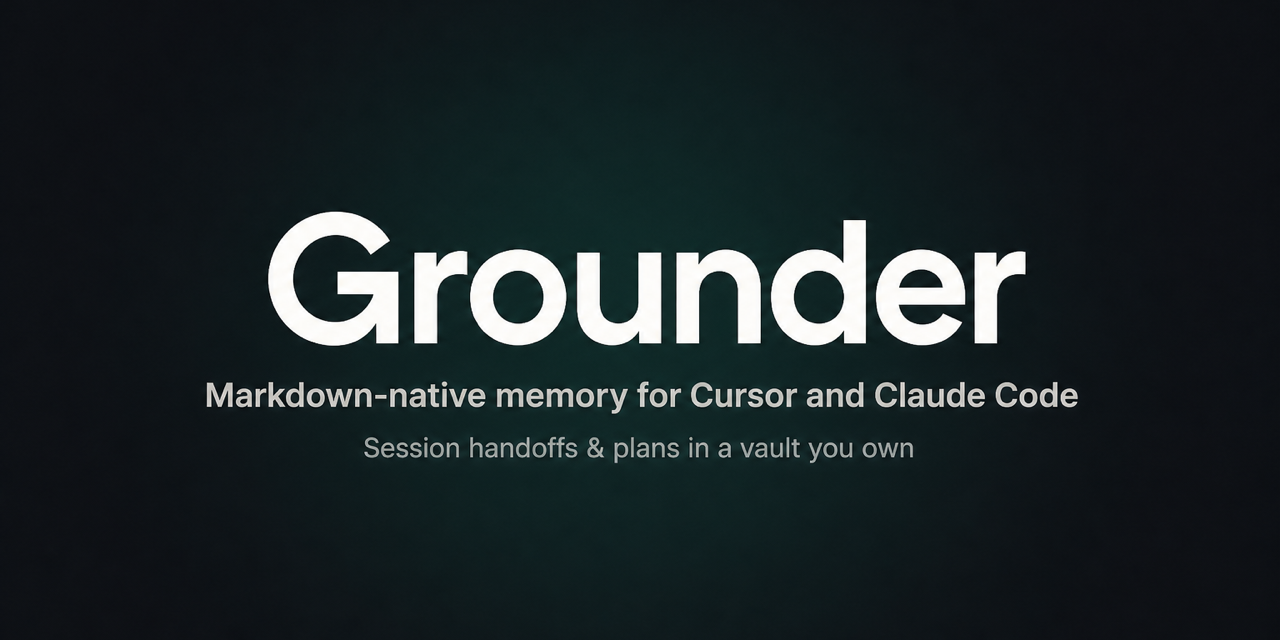
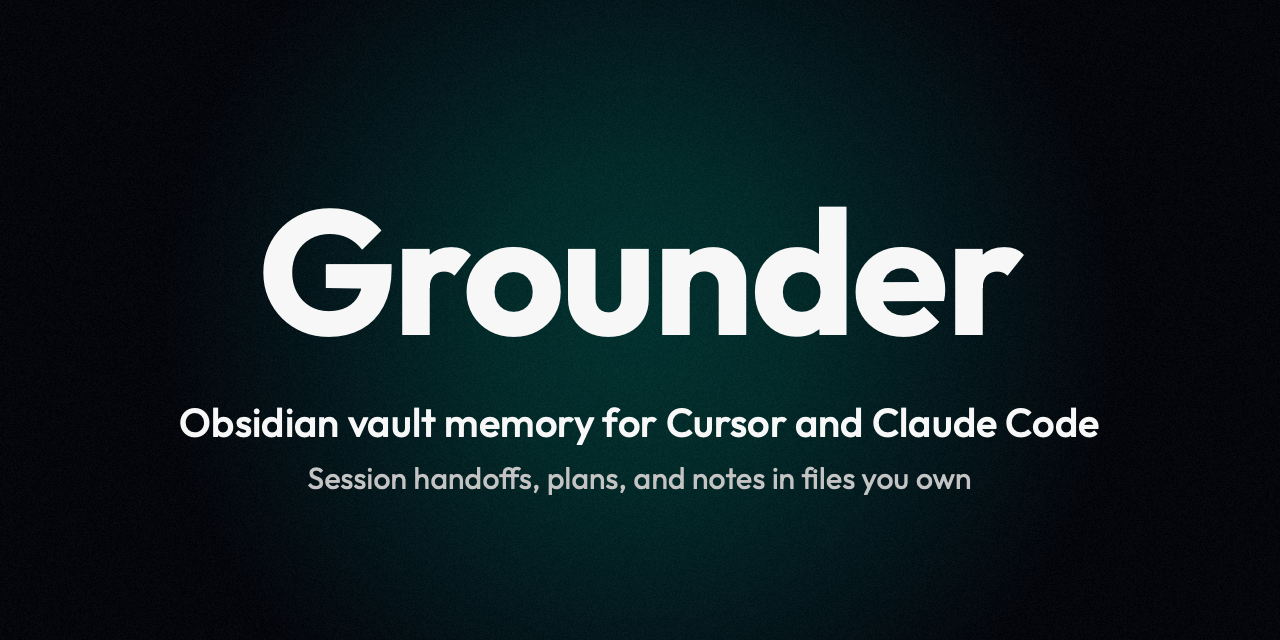
feat: add social preview rendering script and update preview image

diff --git a/docs/_render-social-preview.swift b/docs/_render-social-preview.swift
@@ -1,0 +1,155 @@
+import AppKit
+import Foundation
+import CoreGraphics
+import ImageIO
+import UniformTypeIdentifiers
+
+_ = NSApplication.shared
+
+let outURL = URL(fileURLWithPath: CommandLine.arguments[1])
+let width = 1280
+let height = 640
+let bytesPerPixel = 4
+let bytesPerRow = width * bytesPerPixel
+
+var pixels = [UInt8](repeating: 0, count: width * height * bytesPerPixel)
+let colorSpace = CGColorSpaceCreateDeviceRGB()
+let bitmapInfo = CGImageAlphaInfo.premultipliedLast.rawValue | CGBitmapInfo.byteOrder32Big.rawValue
+
+guard let ctx = CGContext(
+    data: &pixels,
+    width: width,
+    height: height,
+    bitsPerComponent: 8,
+    bytesPerRow: bytesPerRow,
+    space: colorSpace,
+    bitmapInfo: bitmapInfo
+) else {
+    fputs("failed to create CGContext\n", stderr)
+    exit(1)
+}
+
+// Sampled from the original preview: blue-black field, dim teal wash, no hot spot.
+let bg = CGColor(red: 0.024, green: 0.027, blue: 0.043, alpha: 1)
+ctx.setFillColor(bg)
+ctx.fill(CGRect(x: 0, y: 0, width: width, height: height))
+
+let glowCenter = CGPoint(x: Double(width) / 2, y: Double(height) / 2)
+let glowColors = [
+    CGColor(red: 0.024, green: 0.148, blue: 0.138, alpha: 1),
+    CGColor(red: 0.022, green: 0.125, blue: 0.122, alpha: 1),
+    CGColor(red: 0.022, green: 0.078, blue: 0.090, alpha: 1),
+    CGColor(red: 0.024, green: 0.027, blue: 0.043, alpha: 1),
+] as CFArray
+let locations: [CGFloat] = [0, 0.32, 0.62, 1]
+if let gradient = CGGradient(colorsSpace: colorSpace, colors: glowColors, locations: locations) {
+    ctx.drawRadialGradient(
+        gradient,
+        startCenter: glowCenter,
+        startRadius: 0,
+        endCenter: glowCenter,
+        endRadius: 480,
+        options: [.drawsAfterEndLocation]
+    )
+}
+
+var rng = SystemRandomNumberGenerator()
+for i in 0 ..< (width * height) {
+    let n = Int.random(in: -4 ... 4, using: &rng)
+    if n == 0 { continue }
+    let o = i * bytesPerPixel
+    for c in 0 ..< 3 {
+        let v = Int(pixels[o + c]) + n
+        pixels[o + c] = UInt8(max(0, min(255, v)))
+    }
+}
+
+func font(named file: String, size: CGFloat, weight: CGFloat = 400) -> NSFont {
+    let url = URL(fileURLWithPath: "/tmp/outfit/\(file)")
+    guard
+        let data = try? Data(contentsOf: url) as CFData,
+        let provider = CGDataProvider(data: data),
+        let cgFont = CGFont(provider)
+    else {
+        fputs("failed to load font \(file)\n", stderr)
+        exit(1)
+    }
+    CTFontManagerRegisterGraphicsFont(cgFont, nil)
+    let base = CTFontCreateWithGraphicsFont(cgFont, size, nil, nil) as NSFont
+    let desc = base.fontDescriptor.addingAttributes([
+        NSFontDescriptor.AttributeName(rawValue: kCTFontVariationAttribute as String): [
+            NSNumber(value: 0x7767_6874): NSNumber(value: Float(weight)),
+        ],
+    ])
+    return NSFont(descriptor: desc, size: size) ?? base
+}
+
+func attributed(_ text: String, font: NSFont, color: NSColor, tracking: CGFloat) -> NSAttributedString {
+    let paragraph = NSMutableParagraphStyle()
+    paragraph.alignment = .center
+    return NSAttributedString(string: text, attributes: [
+        .font: font,
+        .foregroundColor: color,
+        .paragraphStyle: paragraph,
+        .kern: tracking,
+    ])
+}
+
+let white = NSColor(calibratedWhite: 0.96, alpha: 1)
+let muted = NSColor(calibratedWhite: 0.72, alpha: 1)
+
+let title = attributed("Grounder", font: font(named: "Outfit-Bold.ttf", size: 176, weight: 700), color: white, tracking: -3.0)
+let subtitle = attributed(
+    "Obsidian vault memory for Cursor and Claude Code",
+    font: font(named: "Outfit-Bold.ttf", size: 40, weight: 500),
+    color: white,
+    tracking: 0.1
+)
+let tagline = attributed(
+    "Session handoffs, plans, and notes in files you own",
+    font: font(named: "Outfit-Bold.ttf", size: 30, weight: 400),
+    color: muted,
+    tracking: 0.2
+)
+
+let titleSize = title.size()
+let subtitleSize = subtitle.size()
+let taglineSize = tagline.size()
+let gapTitle: CGFloat = 16
+let gapSub: CGFloat = 12
+let blockHeight = titleSize.height + gapTitle + subtitleSize.height + gapSub + taglineSize.height
+fputs("widths title=\(Int(titleSize.width)) sub=\(Int(subtitleSize.width)) tag=\(Int(taglineSize.width)) blockH=\(Int(blockHeight))\n", stderr)
+// CG y-axis is up; start at the top of the centered block and draw downward.
+var y = (CGFloat(height) + blockHeight) / 2 - 8
+
+NSGraphicsContext.saveGraphicsState()
+NSGraphicsContext.current = NSGraphicsContext(cgContext: ctx, flipped: false)
+
+func draw(_ s: NSAttributedString, size: NSSize, y: inout CGFloat) {
+    y -= size.height
+    let x = (CGFloat(width) - size.width) / 2
+    s.draw(in: NSRect(x: x, y: y, width: size.width, height: size.height))
+}
+
+draw(title, size: titleSize, y: &y)
+y -= gapTitle
+draw(subtitle, size: subtitleSize, y: &y)
+y -= gapSub
+draw(tagline, size: taglineSize, y: &y)
+
+NSGraphicsContext.restoreGraphicsState()
+
+guard let image = ctx.makeImage() else {
+    fputs("failed to make image\n", stderr)
+    exit(1)
+}
+
+guard let dest = CGImageDestinationCreateWithURL(outURL as CFURL, UTType.png.identifier as CFString, 1, nil) else {
+    fputs("failed to create image destination\n", stderr)
+    exit(1)
+}
+CGImageDestinationAddImage(dest, image, nil)
+if !CGImageDestinationFinalize(dest) {
+    fputs("failed to write png\n", stderr)
+    exit(1)
+}
